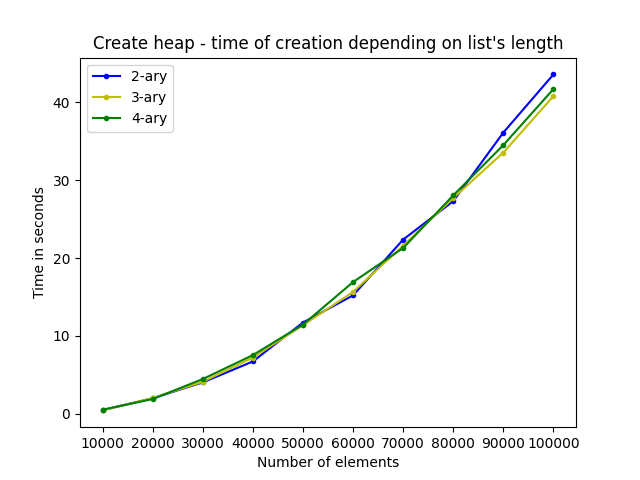
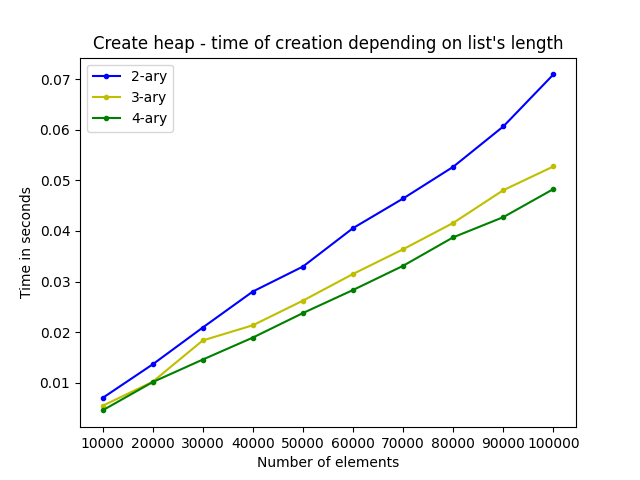
heaps now allow duplicates

diff --git a/AISDI-22L-4-Kopce/create_graphs.py b/AISDI-22L-4-Kopce/create_graphs.py
@@ -7,43 +7,37 @@ if __name__ == "__main__":
     times_create_2 = []
     saved_heap = []
     for size in range(1, 11):
-        heap = [-1]
+        heap = [None]
         total_time = test_time(insert_list, heap, array[:size * 10000], 2)
         times_create_2.append(total_time)
         if size == 10:
             saved_heap = heap
-        print(f"AJAJAJAJA{size} time:{total_time}")
     times_extract_2 = []
     for size in range(1, 11):
         total_time = test_time(extract_n, saved_heap.copy(), size * 10000, 2)
         times_extract_2.append(total_time)
-        print(f"AXAXAXAXAXA{size} time:{total_time}")
     times_create_3 = []
     for size in range(1, 11):
-        heap = [-1]
+        heap = [None]
         total_time = test_time(insert_list, heap, array[:size * 10000], 3)
         times_create_3.append(total_time)
         if size == 10:
             saved_heap = heap
-        print(f"tripleb{size} time:{total_time}")
     times_extract_3 = []
     for size in range(1, 11):
         total_time = test_time(extract_n, saved_heap.copy(), size * 10000, 3)
         times_extract_3.append(total_time)
-        print(f"turipluh{size} time:{total_time}")
     times_create_4 = []
     for size in range(1, 11):
-        heap = [-1]
+        heap = [None]
         total_time = test_time(insert_list, heap, array[:size * 10000], 4)
         times_create_4.append(total_time)
         if size == 10:
             saved_heap = heap
-        print(f"quadurupuluh{size} time:{total_time}")
     times_extract_4 = []
     for size in range(1, 11):
         total_time = test_time(extract_n, saved_heap.copy(), size * 10000, 4)
         times_extract_4.append(total_time)
-        print(f"420 {size} time:{total_time}")
 
     generate_and_save_graph(
         "Create_heap",

diff --git a/AISDI-22L-4-Kopce/heaps.py b/AISDI-22L-4-Kopce/heaps.py
@@ -1,12 +1,11 @@
 def insert(heap, value, dimension):
-    if value not in heap:
-        heap.append(value)
-        element = len(heap) - 1
+    heap.append(value)
+    element = len(heap) - 1
+    parent = max((element - 2) // dimension + 1, 1)
+    while (heap[parent] < value):
+        heap[parent], heap[element] = heap[element], heap[parent]
+        element = parent
         parent = max((element - 2) // dimension + 1, 1)
-        while (heap[parent] < value):
-            heap[parent], heap[element] = heap[element], heap[parent]
-            element = parent
-            parent = max((element - 2) // dimension + 1, 1)
 
 
 def extract(heap, dimension):

diff --git a/AISDI-22L-4-Kopce/test_heaps.py b/AISDI-22L-4-Kopce/test_heaps.py
@@ -6,7 +6,7 @@ def check_heap(heap: list, index: int, dim: int):
     first = dim * (index - 1) + 2
     for i in range(dim):
         if first + i < len(heap):
-            assert heap[first + i] < heap[index]
+            assert heap[first + i] <= heap[index]
             check_heap(heap, first + i, dim)
 
 
